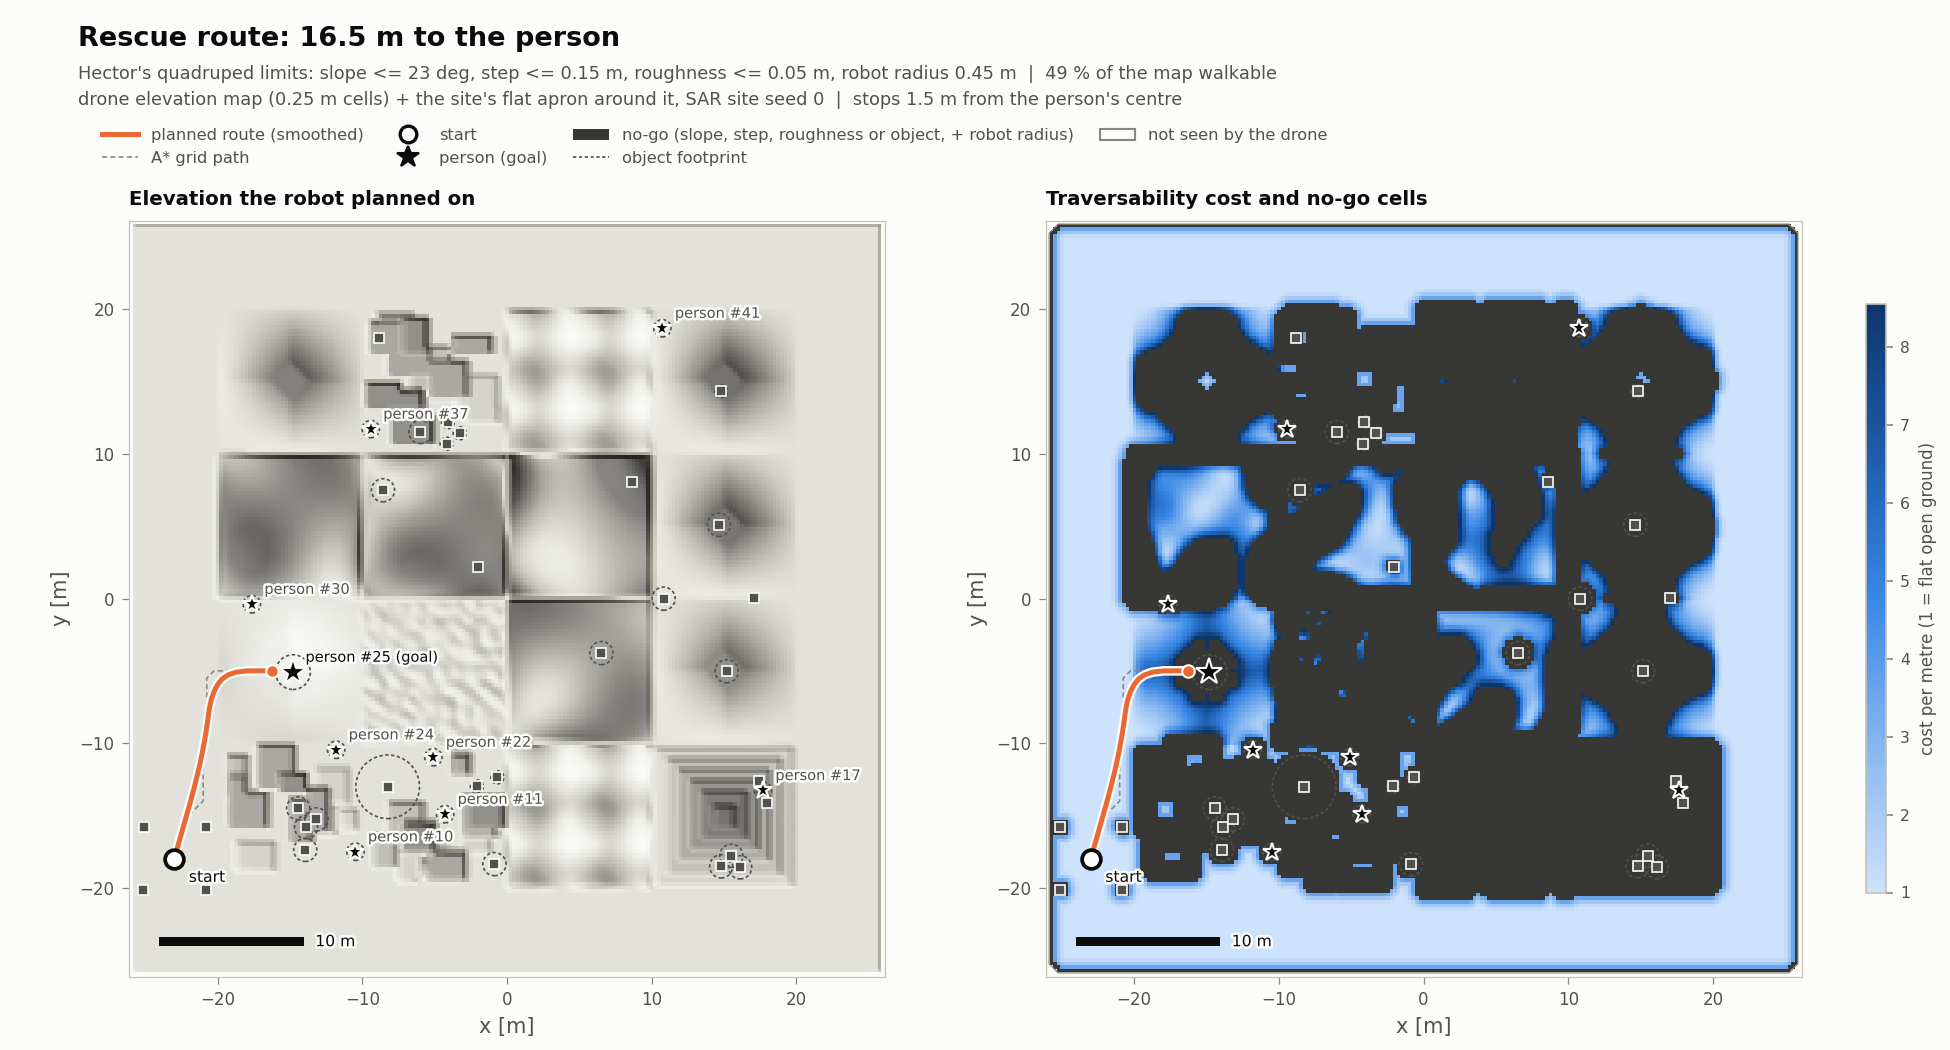
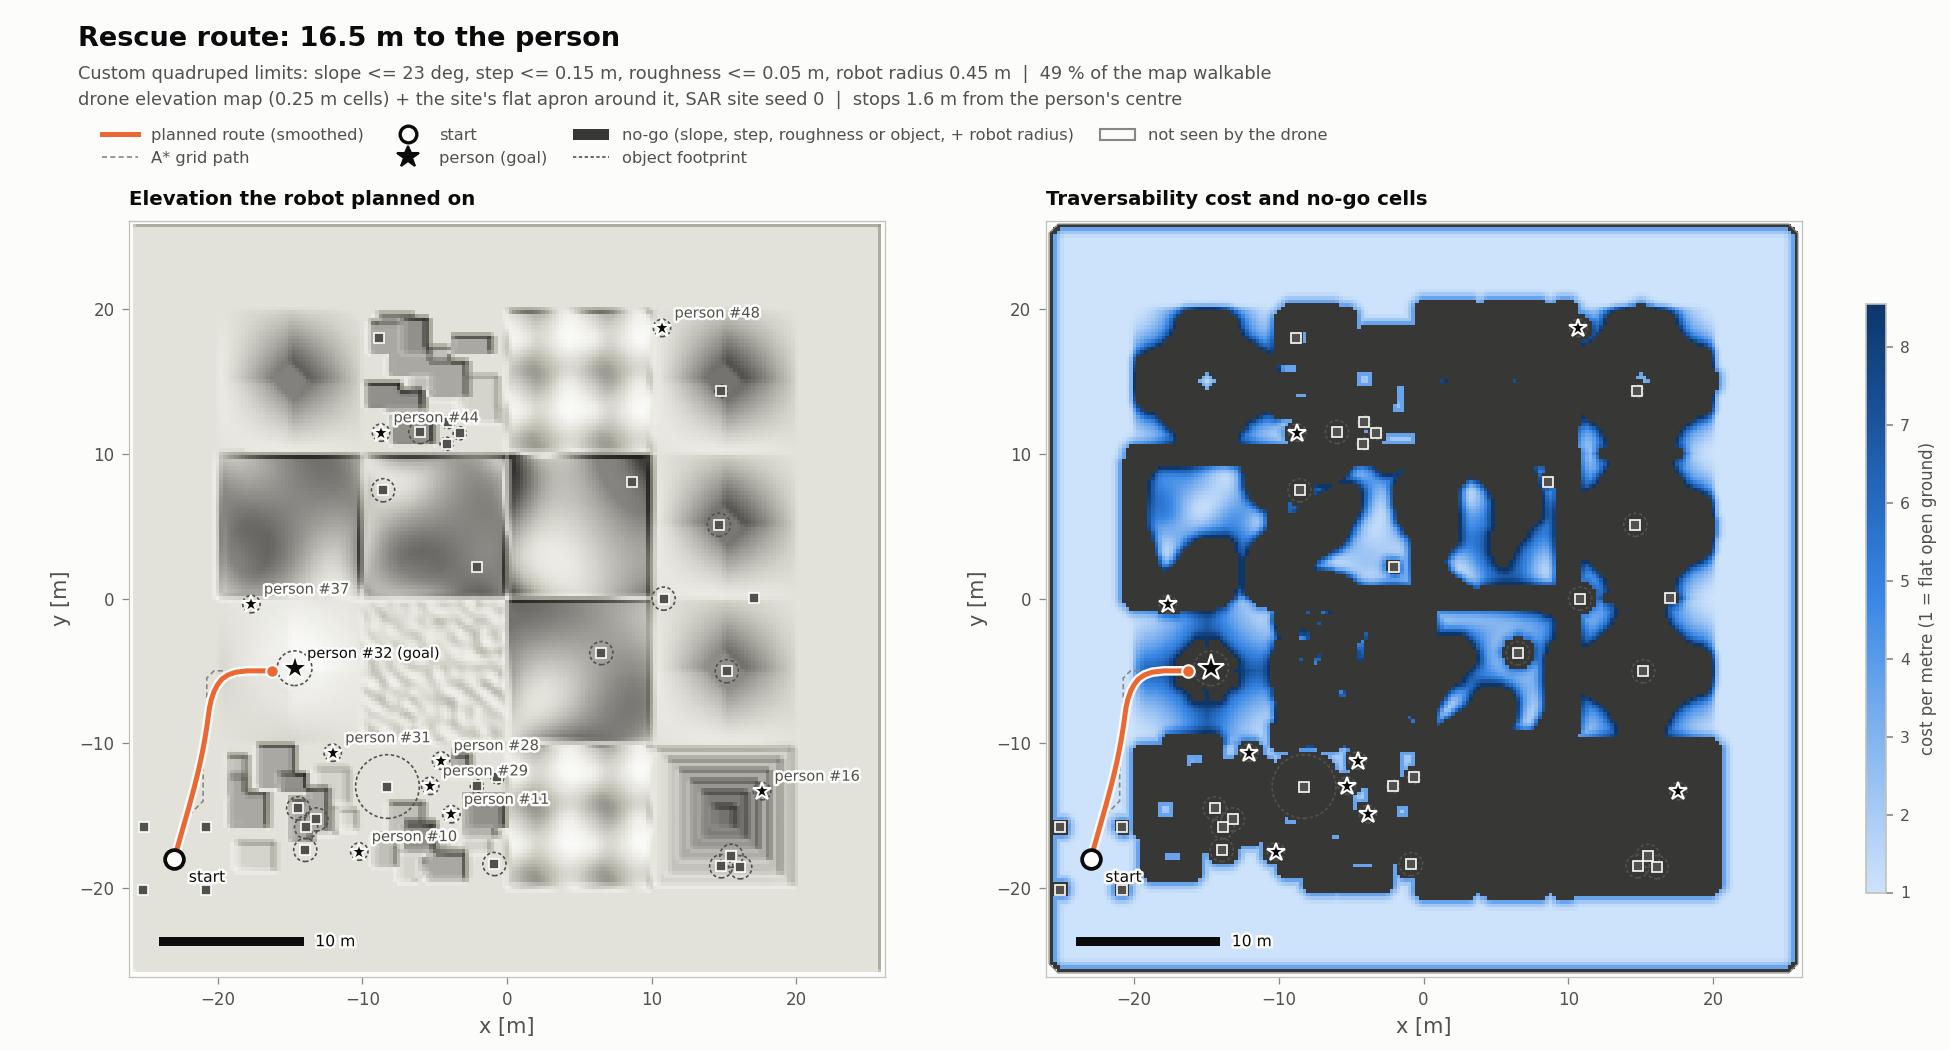
Update the mission and rescue finale results for natural people
The recorded live mission now flies over the natural people: all 10
people and 35 objects in the survey area and 5 of the 6 around the
landing pad (the missed one is a responder walking outside the area),
no false alarm, pins 4 cm from the truth. The finale walks to the
person lying in the crater (--goal_pin 32): 24.3 s, 32 of 32 robots,
no fall. The ground-truth rows of the finale tables are measured
again with natural people, and the site renders, the demo frame and
the finale figures are new.

diff --git a/sim/README.md b/sim/README.md
@@ -80,9 +80,9 @@ Details: [`src/drone_lab/sar/README.md`](src/drone_lab/sar/README.md).
 
 ![A drone-camera frame with the boxes taken from the instance segmentation](docs/images/sar_drone_frame.jpg)
 
-*Seed 0 (`scripts/sar_preview.py`): the helipad with its cones, people among the blocks, the forklift. Below: a
-drone-camera frame at survey altitude with the boxes and classes from the instance segmentation (a lying person,
-the forklift, two crates).*
+*Seed 0 (`scripts/sar_preview.py`): the helipad with its cones and a responder walking past it, people among the
+blocks, the forklift. Below: a drone-camera frame at survey altitude with the boxes and classes from the instance
+segmentation (a victim in the recovery position, the forklift, two crates).*
 
 ```bash
 python scripts/sar_preview.py            # GPU, ~1 min: overview, photo map with GT pins, drone frames, checks
@@ -145,9 +145,10 @@ python scripts/compose_video.py --gcs runs/sar_live --sim ~/isaac_ws/projects/dr
 
 ![The live mission: the Isaac Sim chase view next to the ground station](docs/images/sar_mission_demo.jpg)
 
-*Frame of the demo video, 81 s into the mission: on the left the Isaac Sim window, a follow camera over the drone
-with its mapping rays glowing on the gravel; on the right the ground station, whose detector has just boxed a
-person and three crates in the drone camera's frame and pinned five people on the map so far.*
+*Frame of the demo video, 75 s into the mission: on the left the Isaac Sim window, a follow camera over the drone
+with its mapping rays glowing on the gravel; on the right the ground station, whose detector has just boxed three
+people (sitting, pointing, lying) and the forklift in the drone camera's frame and pinned five people on the map
+so far.*
 
 **The Isaac Sim window** shows only the viewport (`--kit_ui` brings back Isaac Sim's menus and panels;
 `--window_pos X Y` places it, e.g. on a second monitor) and the same view is recorded with `--video`. The camera
@@ -189,20 +190,21 @@ may pin them), `--gt_boxes` (adds the objects' boxes from the instance segmentat
 station's `--detector gt`), `--jpeg`, `--camera_every N`, `--gcs <address>`, `--no_gcs`. Outputs in `runs/<out>/` (default `sar_mission_seed<seed>`): `mission.json` (plan,
 outcome, closest approach, loop and link timing, GPU memory), `trajectory.csv`, `ground_truth.json`.
 
-**Result: the recorded live mission** (seed 0, the commands above: both windows open, the chase view recorded,
-the ground station with the fine-tuned detector). The drone lands on its pad after 6 min 16 s and 428 m, 7 mm
-from its centre; over the survey it holds 7.68 m with 0.10 m standard deviation and tilts 0.7 degrees on
-average. The ground station scanned 100 % of the area and photographed 99.8 %, found all 9 people and all 39
-objects with 2 false alarms (cones on the hands of the one standing person), with pins 6 cm from the truth on
-average; its height map is within 4 mm of the true terrain where the ground has no step (0.10 m RMSE with the
-block walls). Closest approach to an obstacle: 2.4 m, the crown of a tree. With the window, the video and the
-ground station's YOLO on the same machine the simulation runs at 14.5 steps per second (1.45x real time): the
-step with the RTX render 61 ms, the chase view 1.8 ms, the video frame 3.9 ms, the link 0.9 ms; 6.2 GiB of GPU
-memory at the peak.
+**Result: the recorded live mission** (seed 0, the commands above: both windows open, the chase view recorded, the
+ground station with the fine-tuned detector). The drone lands on its pad after 6 min 16 s and 428 m, 7 mm from its
+centre; over the survey it holds 7.68 m with 0.10 m standard deviation and tilts 0.7 degrees on average. The ground
+station scanned 100 % of the area and photographed 99.8 %. It found all 35 objects in the survey area, the 10 people
+among them, and 5 of the 6 around the landing pad, with no false alarm and pins 4 cm from the truth on average
+(people 6 cm); the one it missed is a responder walking 5.6 m south of the pad, outside the survey area, whom the
+camera never saw. Its height map is within 4 mm of the true terrain where the ground has no step (0.10 m RMSE with
+the block walls). Closest approach to an obstacle: 2.4 m, the crown of a tree. With the window, the video and the
+ground station's YOLO on the same machine the simulation runs at 14.5 steps per second (1.45x real time): the step
+with the RTX render 61 ms, the chase view 2.4 ms, the video frame 3.9 ms, the link 0.9 ms; 6.3 GiB of GPU memory at
+the peak.
 
-Headless, the same flight runs at 17-21 steps per second (1.7-2.1x real time), and a run with the same detector
-found the same 39 objects with 3 false alarms, all on that standing person. Comparison with the stock COCO
-detector, the geometry check with perfect boxes and the loop rates: the drone_gcs README (Results).
+Headless, the same flight runs at 17-22 steps per second (1.7-2.2x real time), and a run with the same detector
+found the same 40 objects, again without a false alarm. Comparison with the stock COCO detector, the geometry
+check with perfect boxes and the loop rates: the drone_gcs README (Results).
 
 ## Rescue finale: Hector's quadruped walks to a person the drone found
 
@@ -218,36 +220,43 @@ mission's backend, over the same seeded terrain and dressed site. Commands, meth
 
 ![The route planned on the drone's elevation map and pins, and the traversability cost](docs/images/rescue_finale_plan.png)
 
-*Planned on the report of the recorded live mission (`drone_gcs/runs/sar_mission_final`: 9 of 9 people found): from
-the landing pad north along the border, then straight down the crater's west wall to person #25, whom the drone saw
-lying in the crater (the pin is 0.24 m from person_08's true centre). Top: the arrival in the follow-cam video, with
-the minimap of the drone's map and the walked track. Bottom: the elevation the robot planned on (the drone's map plus
-the known flat border around the surveyed area) and the traversability cost with the no-go cells.*
+*Planned on the report of the recorded live mission (`drone_gcs/runs/sar_mission_hero`: 10 of 10 people found):
+from the landing pad north along the border, then straight down the crater's west wall to person #32, whom the drone
+saw lying in the recovery position on the crater floor (the pin is 0.05 m from person_08's true centre). Top: the
+arrival in the follow-cam video, with the minimap of the drone's map and the walked track. Bottom: the elevation the
+robot planned on (the drone's map plus the known flat border around the surveyed area) and the traversability cost
+with the no-go cells.*
 
-The recorded finale on the live mission's report (one robot, `--video`): the robot reached the person in 24.3 s,
-walked 16.5 m of the 16.5 m route without a fall and stopped 1.62 m from the drone's pin (1.65 m from the person's
-real centre).
+The recorded finale on the live mission's report (one robot, `--goal_pin 32 --video`): the robot reached the person
+in 24.3 s, walked 16.5 m of the 16.5 m route without a fall and stopped 1.74 m from the drone's pin (1.69 m from the
+person's real centre).
 
 | Map and pins | Person | 32 robots at once, no second tries | Planned route | Falls |
 |---|---|---|---|---|
-| the recorded live mission's report (`--report <drone_gcs run>`) | pin #25, lying in the crater (person_08) | 32/32 reached, 23.9-24.7 s | 16.5 m | 0 |
-| an earlier full mission's report (`sar_demo_seed0`) | pin #34, the same person | 32/32, 24.9-25.4 s | 17.1 m | 0 |
-| the first 90 s of a mission (5 people found) | pin #30, lying next to the crates (person_02) | 32/32, 19.8-21.5 s | 12.8 m | 0 |
-| the drone's survey map `runs/lawnmower_v1` + the site's pins | person_08 in the crater | 32/32, 24.6-25.1 s | 16.9 m | 0 |
-| terrain + site ground truth (default without a report) | person_08 in the crater | 32/32, 22.5-23.4 s | 15.6 m | 0 |
-| ground truth, `--goal_pin person_04` | person_04, lying by the collapsed buildings | 32/32, 29.7-30.2 s | 18.6 m | 0 |
+| the recorded live mission's report (`--report <drone_gcs run> --goal_pin 32`) | pin #32, in the recovery position in the crater (person_08) | 32/32 reached, 23.9-24.7 s | 16.5 m | 0 |
+| an earlier full mission's report (`sar_demo_seed0`), T-pose people | pin #34, person_08 | 32/32, 24.9-25.4 s | 17.1 m | 0 |
+| the first 90 s of a mission (5 people found), T-pose people | pin #30, lying next to the crates (person_02) | 32/32, 19.8-21.5 s | 12.8 m | 0 |
+| the drone's survey map `runs/lawnmower_v1` + the site's pins | person_08, from the crater's north rim | 32/32, 32.4-33.1 s | 22.8 m | 1 |
+| terrain + site ground truth (default without a report) | person_08 in the crater | 32/32, 23.5-24.1 s | 16.1 m | 0 |
+| ground truth, `--goal_pin person_04` | person_04, lying by the collapsed buildings | 32/32, 28.3-29.3 s | 17.5 m | 0 |
 | ground truth, `--max_slope 22` | person_08, from the crater rim | 32/32, 34.7-36.8 s | 23.7 m | 0 |
 
-The pins do not say whether a person is lying or standing; the height of a pin above the mapped ground does (a lying
-person's back is at most 0.4 m up, a standing person's head 1.3-1.8 m), so the planner picks a lying person 15-25 m
-away first and gives them a larger footprint. Steep ground is walked along the fall line: turning on a steep descent
-is what makes this policy run away downhill (in the first recording on the live mission's map the route turned on the
-crater wall in its last metre, and the robot tumbled into the person half a second after arriving), so the custom
-quadruped's planner also pays for the slope across its direction of travel, and the route now turns on the flat
-border. The site's textured terrain needed one change for walking robots: on PhysX a collision mesh with material face
-subsets stops colliding (the robot fell through the ground), so the rescue tasks move the textures to a render-only
-copy of the terrain mesh. The Unitree Go2 with Isaac Lab's rough-terrain policy remains as a fallback (`--robot go2`,
-on Newton: that checkpoint flips within about 2 s on PhysX); it reached the crater person 4/4.
+The two rows marked T-pose people were walked before the people got their natural poses; on the plain survey map
+the route now comes down the crater's north wall, where one robot of the 32 tipped over 0.1 s after arriving.
+
+The pins do not say how a person lies, sits or stands; the height of a pin above the mapped ground tells a person on
+the ground from one on their feet (on the demo site 0.1-0.5 m for people lying or sitting, 0.8-1.9 m for standing
+ones), so the planner picks a person on the ground 15-25 m away first and gives them a larger footprint. On the
+recorded mission's report its first pick is a person sitting on the sand 18.4 m away (pin #37); the recorded finale
+names the person lying in the crater with `--goal_pin 32`. Steep ground is walked along the fall line: turning on a
+steep descent is what makes this policy run away downhill (in the first recording on the live mission's map the
+route turned on the crater wall in its last metre, and the robot tumbled into the person half a second after
+arriving), so the custom quadruped's planner also pays for the slope across its direction of travel, and the route
+now turns on the flat border. The site's textured terrain needed one change for walking robots: on PhysX a collision
+mesh with material face subsets stops colliding (the robot fell through the ground), so the rescue tasks move the
+textures to a render-only copy of the terrain mesh. The Unitree Go2 with Isaac Lab's rough-terrain policy remains as
+a fallback (`--robot go2`, on Newton: that checkpoint flips within about 2 s on PhysX); it reached the crater person
+4/4.
 
 ```bash
 CUDA_VISIBLE_DEVICES= python scripts/rescue_finale.py --plan_only --out rescue_plan    # CPU, seconds: plan only

diff --git a/sim/src/drone_lab/teaming/README.md b/sim/src/drone_lab/teaming/README.md
@@ -93,7 +93,7 @@ free lane next to the person: the recorded robot ran away there at 2.2 m/s and t
 after arriving (with 32 robots on that route none fell, but one reached 1.62 m/s and one stopped 1.01 m from the
 pin). The custom quadruped's planner therefore also pays `6 (cross_slope / max_slope)^2` per metre for the slope
 across its direction of travel. The route on that map now turns on the flat border and comes straight down the fall
-line: 32 of 32 robots, top speed 1.33 m/s, closest stop 1.50 m from the pin, and the recorded walk arrives cleanly.
+line: 32 of 32 robots, top speed 1.33 m/s, closest stop 1.63 m from the pin, and the recorded walk arrives cleanly.
 On the rim route (`--max_slope 22`), which ends on the slope above the person, the weight also stops the run-aways
 while slowing down there: no robot of 32 above 1.2 m/s instead of 8, closest stop 2.02 m from the person instead of
 0.94 m. On the ground truth the route comes down the crater's corner, where the fall line itself runs diagonally,
@@ -106,21 +106,23 @@ spawn jitter), no second tries:
 
 | Map and pins | Route | Robots reached | Time | Planned / walked | Falls |
 |---|---|---|---|---|---|
-| the recorded live mission's report (`drone_gcs/runs/sar_mission_final`: 9 of 9 people found) | north along the border, then straight down the crater's west wall to the drone's pin of person_08 (0.24 m from the true centre) | 32/32 | 23.9-24.7 s | 16.5 / 16.3-16.6 m | 0 |
-| an earlier full mission's report (`sar_demo_seed0`) | the same way, to that mission's pin of person_08 | 32/32 | 24.9-25.4 s | 17.1 / 16.9-17.3 m | 0 |
-| a partial mission report (`e2e_v2_gt`: the first 90 s of the flight, 5 people found) | border, past the crates to the drone's pin of person_02 (0.15 m off) | 32/32 | 19.8-21.5 s | 12.8 / 12.4-12.8 m | 0 |
-| the drone's survey map `runs/lawnmower_v1` (no detections: site pins) | down the crater's west wall to person_08 | 32/32 | 24.6-25.1 s | 16.9 / 16.7-17.1 m | 0 |
-| ground truth (default) | down the crater's south-west corner to person_08, lying face down on the crater floor 1.4 m below the rim | 32/32 | 22.5-23.4 s | 15.6 / 15.4-15.7 m | 0 |
-| ground truth, `--goal_pin person_04` | past the collapsed buildings to person_04, lying face up | 32/32 | 29.7-30.2 s | 18.6 / 18.3-18.6 m | 0 |
+| the recorded live mission's report (`drone_gcs/runs/sar_mission_hero`: 10 of 10 people found), `--goal_pin 32` | north along the border, then straight down the crater's west wall to the drone's pin of person_08 (0.05 m from the true centre) | 32/32 | 23.9-24.7 s | 16.5 / 16.3-16.6 m | 0 |
+| an earlier full mission's report (`sar_demo_seed0`), T-pose people | the same way, to that mission's pin of person_08 | 32/32 | 24.9-25.4 s | 17.1 / 16.9-17.3 m | 0 |
+| a partial mission report (`e2e_v2_gt`: the first 90 s of the flight, 5 people found), T-pose people | border, past the crates to the drone's pin of person_02 (0.15 m off) | 32/32 | 19.8-21.5 s | 12.8 / 12.4-12.8 m | 0 |
+| the drone's survey map `runs/lawnmower_v1` (no detections: site pins) | along the crater's north rim, then down its north wall to person_08 | 32/32 | 32.4-33.1 s | 22.8 / 22.4-23.1 m | 1 |
+| ground truth (default) | down the crater's south-west corner to person_08, lying in the recovery position on the crater floor 1.4 m below the rim | 32/32 | 23.5-24.1 s | 16.1 / 15.5-15.8 m | 0 |
+| ground truth, `--goal_pin person_04` | past the collapsed buildings to person_04, lying face up | 32/32 | 28.3-29.3 s | 17.5 / 17.3-17.6 m | 0 |
 | ground truth, `--max_slope 22` | along the crater's north rim, stops on the slope above person_08 | 32/32 | 34.7-36.8 s | 23.7 / 23.0-23.4 m | 0 |
-| ground truth, `--sar_seed 3` (another site) | to that site's person_04, lying face down | 32/32 | 31.5-33.4 s | 19.5 / 19.2-19.6 m | 0 |
+| ground truth, `--sar_seed 3` (another site) | to that site's person_04, lying face up | 32/32 | 33.5-38.3 s | 20.7 / 20.4-20.8 m | 0 |
 
-Mean cross-track error 2-10 cm, at most 17 cm (on the rim route up to 0.7 m: turning on the 22 deg slope above the
-person, a few robots drift downhill, with the cross-slope weight or without), walking speed 0.53-0.64 m/s at a cruise
-command of 0.7 m/s. The robots stop 1.35-2.2 m from the person's centre (the person's outline or, for a drone pin, a
-1.2 m circle, plus the robot's clearance); from the live mission's report 1.54-1.68 m from the real person's centre.
-With `--video` (one robot) on the live mission's report: 24.3 s, 16.5 m walked, no falls, stopped 1.62 m from the
-pin. In the earlier `sar_demo_seed0` report the detector also pinned a "barrel" 4.3 m above the landing pad (one of
+The two rows marked T-pose people were walked before the site's people got their natural poses; the others are on
+the site as it is now. On the plain survey map the route now ends on the crater's north wall, and one robot of the 32
+tipped over there 0.1 s after arriving. Mean cross-track error 2-10 cm, at most 23 cm (on the rim route up to 0.7 m:
+turning on the 22 deg slope above the person, a few robots drift downhill, with the cross-slope weight or without),
+walking speed 0.51-0.68 m/s at a cruise command of 0.7 m/s. The robots stop 0.8-2.2 m from the person's centre (the
+person's outline or, for a drone pin, a 1.2 m circle, plus the robot's clearance); from the live mission's report
+1.58-1.72 m from the real person's centre. With `--video` (one robot) on the live mission's report: 24.3 s, 16.5 m
+walked, no falls, stopped 1.74 m from the pin. In the earlier `sar_demo_seed0` report the detector also pinned a "barrel" 4.3 m above the landing pad (one of
 its three false alarms); the planner keeps clear of every pin, so that robot starts 0.75 m west of the pad's centre.
 The live mission's report has no such pin.
 
